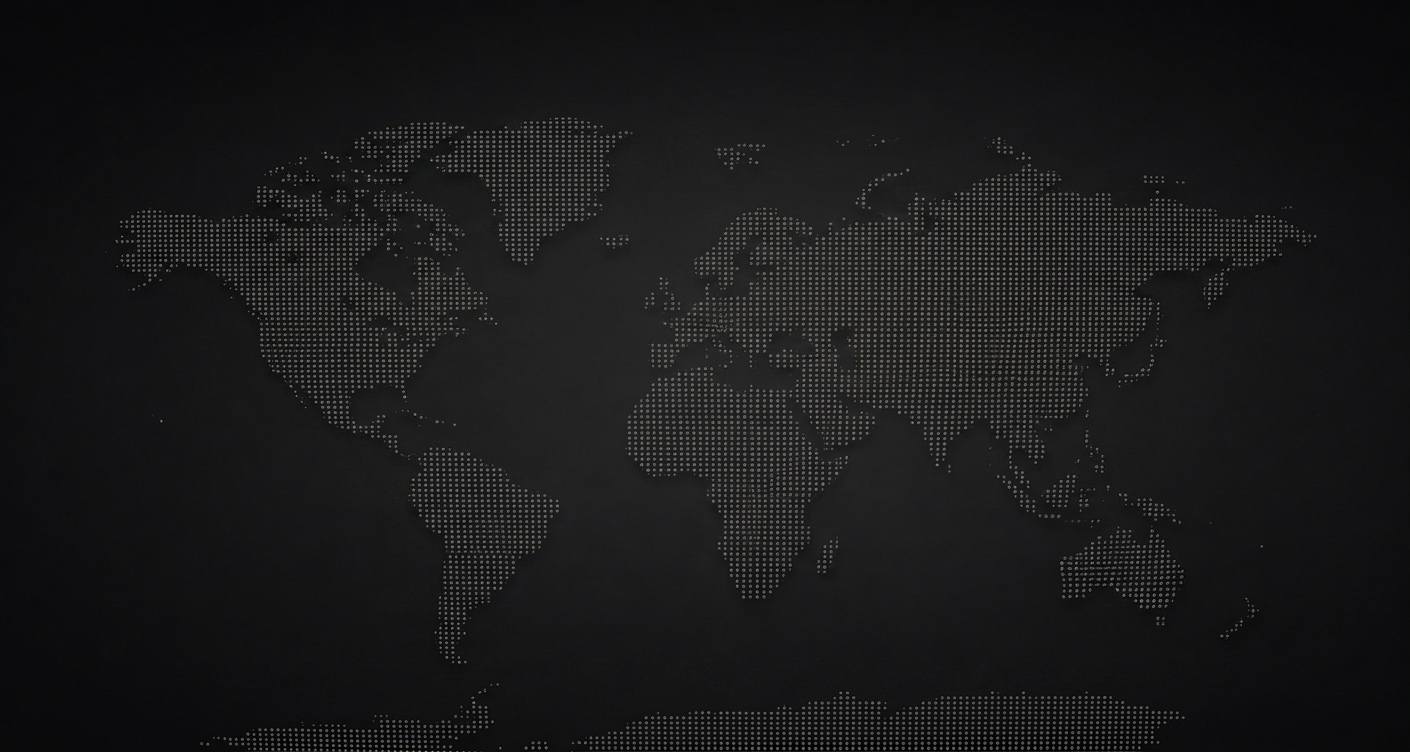
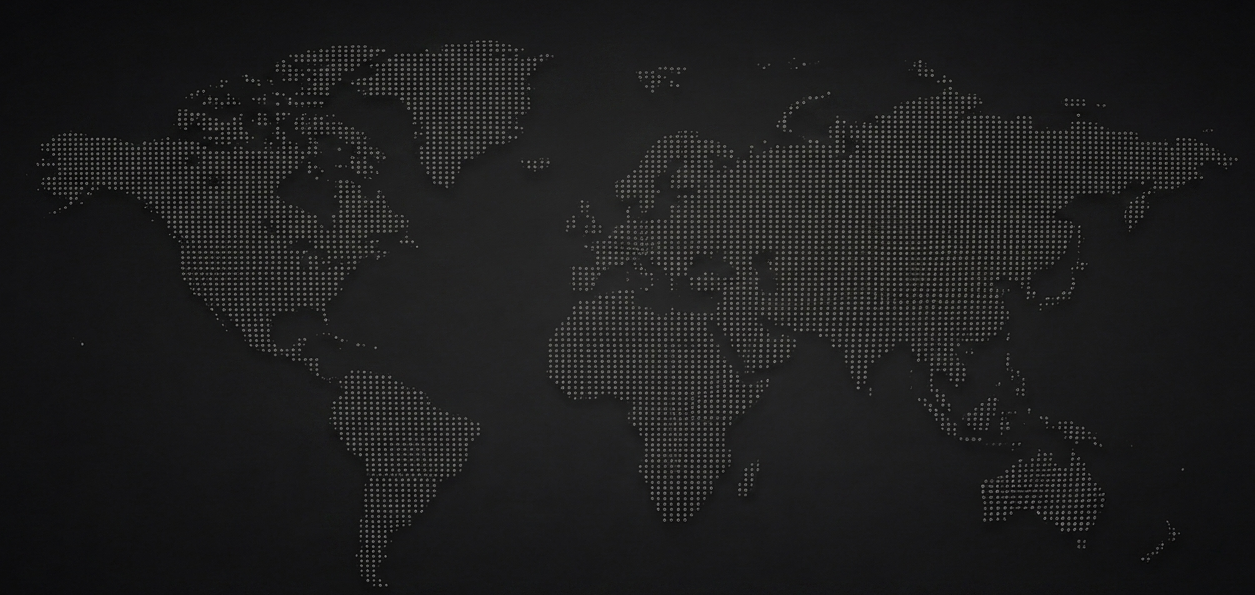
feat: update global network map coordinates and assets
Adjust marker positions for Colombia, Perú, and Spain to improve alignment with the map visual and update associated image assets.

diff --git a/src/components/GlobalNetworkMap.tsx b/src/components/GlobalNetworkMap.tsx
@@ -33,8 +33,8 @@ const HUBS: HubLocation[] = [
       'Mesa de Ayuda y Soporte Nivel 1, 2 y 3'
     ],
     stats: 'Base Corporativa · Hub Regional',
-    x: 31.2,
-    y: 63.0,
+    x: 26.8,
+    y: 64.0,
     isPrimary: true
   },
   {
@@ -51,8 +51,8 @@ const HUBS: HubLocation[] = [
       'Gestión de Bases de Datos y Enriquecimiento'
     ],
     stats: 'Expansión Regional · Cobertura Andina',
-    x: 31.4,
-    y: 69.5,
+    x: 25.8,
+    y: 72.0,
     isPrimary: true
   },
   {
@@ -69,8 +69,8 @@ const HUBS: HubLocation[] = [
       'Consultoría de Transformación y Estrategia BPO'
     ],
     stats: 'Gobernanza Corporativa · Cobertura UE',
-    x: 47.6,
-    y: 46.2,
+    x: 48.7,
+    y: 44.6,
     isPrimary: true
   }
 ];
@@ -78,11 +78,11 @@ const HUBS: HubLocation[] = [
 // Arcs connecting precisely Colombia, España and Perú
 const ARCS = [
   // Colombia -> España (Transatlantic Bridge)
-  { from: { x: 31.2, y: 63.0 }, to: { x: 47.6, y: 46.2 }, curve: -65 },
+  { from: { x: 26.8, y: 64.0 }, to: { x: 48.7, y: 44.6 }, curve: -65 },
   // Perú -> Colombia (Andean Spine)
-  { from: { x: 31.4, y: 69.5 }, to: { x: 31.2, y: 63.0 }, curve: -8 },
+  { from: { x: 25.8, y: 72.0 }, to: { x: 26.8, y: 64.0 }, curve: -8 },
   // Perú -> España (Direct Link)
-  { from: { x: 31.4, y: 69.5 }, to: { x: 47.6, y: 46.2 }, curve: -95 }
+  { from: { x: 25.8, y: 72.0 }, to: { x: 48.7, y: 44.6 }, curve: -95 }
 ];
 
 export default function GlobalNetworkMap() {
@@ -94,7 +94,7 @@ export default function GlobalNetworkMap() {
       
       {/* Background Gradients & Subtle Radial Glows */}
       <div className="absolute top-0 left-1/4 w-96 h-96 bg-sky-950/20 rounded-full blur-3xl pointer-events-none"></div>
-      <div className="absolute bottom-0 right-1/4 w-96 h-96 bg-amber-950/20 rounded-full blur-3xl pointer-events-none"></div>
+      <div className="absolute bottom-0 right-1/4 w-96 h-96 bg-neutral-800/20 rounded-full blur-3xl pointer-events-none"></div>
 
       <div className="relative z-10 max-w-[1440px] mx-auto px-2 sm:px-4 lg:px-6 w-full">
         
@@ -133,21 +133,7 @@ export default function GlobalNetworkMap() {
               className="absolute inset-0 w-full h-full pointer-events-none select-none z-10"
             >
               <defs>
-                {/* Glow Filter for primary arcs */}
-                <filter id="mapArcGlow" x="-50%" y="-50%" width="200%" height="200%">
-                  <feGaussianBlur stdDeviation="3" result="blur" />
-                  <feMerge>
-                    <feMergeNode in="blur" />
-                    <feMergeNode in="SourceGraphic" />
-                  </feMerge>
-                </filter>
-                
-                {/* Gradient for transatlantic and global arcs */}
-                <linearGradient id="mapGlobalArcGradient" x1="0%" y1="0%" x2="100%" y2="100%">
-                  <stop offset="0%" stopColor="#38bdf8" stopOpacity="0.9" />
-                  <stop offset="50%" stopColor="#ffffff" stopOpacity="1" />
-                  <stop offset="100%" stopColor="#f59e0b" stopOpacity="0.9" />
-                </linearGradient>
+
               </defs>
 
               {/* Dynamic Connecting Arcs */}
@@ -166,19 +152,18 @@ export default function GlobalNetworkMap() {
                     <path
                       d={pathD}
                       fill="none"
-                      stroke="#404040"
-                      strokeWidth="1.2"
+                      stroke="#ffffff"
+                      strokeWidth="0.8"
                       strokeDasharray="4,4"
-                      opacity="0.6"
+                      opacity="0.35"
                     />
                     {/* Glowing Fluid Arc (Slower Latency) */}
                     <path
                       d={pathD}
                       fill="none"
-                      stroke="url(#mapGlobalArcGradient)"
-                      strokeWidth="1.8"
-                      filter="url(#mapArcGlow)"
-                      opacity="0.85"
+                      stroke="#ffffff"
+                      strokeWidth="1"
+                      opacity="0.75"
                       style={{ animation: 'pulse 5s cubic-bezier(0.4, 0, 0.6, 1) infinite' }}
                     />
                   </g>
@@ -209,20 +194,20 @@ export default function GlobalNetworkMap() {
                         {/* Outer Glow Ping Animation (Calm, Slower Latency 4s & Compact) */}
                         <span
                           style={{ animation: 'ping 4s cubic-bezier(0, 0, 0.2, 1) infinite' }}
-                          className="absolute w-7 h-7 rounded-full bg-amber-400/25 pointer-events-none"
+                          className="absolute w-7 h-7 rounded-full bg-gray-400/20 pointer-events-none"
                         ></span>
                         
                         {/* Inner Wave Pulse Animation (Slower Latency 3.5s & Compact) */}
                         <span
                           style={{ animation: 'pulse 3.5s cubic-bezier(0.4, 0, 0.6, 1) infinite' }}
-                          className="absolute w-5 h-5 rounded-full bg-sky-400/35 pointer-events-none"
+                          className="absolute w-5 h-5 rounded-full bg-gray-300/25 pointer-events-none"
                         ></span>
 
                         {/* Solid Ring with Center Marker (Accurate pinpoint size) */}
                         <div className={`w-3.5 h-3.5 rounded-full border border-white transition-all duration-300 flex items-center justify-center shadow-lg ${
                           isSelected
-                            ? 'bg-amber-400 scale-125 ring-2 ring-amber-400/70 shadow-amber-400/80'
-                            : 'bg-amber-400 hover:scale-125 shadow-amber-500/50'
+                            ? 'bg-gray-300 scale-125 ring-2 ring-gray-400/70 shadow-gray-400/50'
+                            : 'bg-gray-400 hover:scale-125 shadow-gray-500/40'
                         }`}>
                           <span className="w-1.5 h-1.5 rounded-full bg-black"></span>
                         </div>
@@ -257,7 +242,7 @@ export default function GlobalNetworkMap() {
                       <h4 className="text-lg font-black text-white tracking-tight">
                         {selectedHub.country}
                       </h4>
-                      <p className="text-xs font-bold text-amber-400">
+                      <p className="text-xs font-bold text-neutral-300">
                         {selectedHub.name}
                       </p>
                     </div>
@@ -281,9 +266,9 @@ export default function GlobalNetworkMap() {
                   </div>
 
                   <div className="flex items-center gap-2 text-neutral-300">
-                    <Users className="w-3.5 h-3.5 text-amber-400 shrink-0" />
+                    <Users className="w-3.5 h-3.5 text-neutral-300 shrink-0" />
                     <span className="font-semibold text-neutral-200">Enfoque:</span>
-                    <span className="text-amber-200 font-medium">{selectedHub.stats}</span>
+                    <span className="text-neutral-300 font-medium">{selectedHub.stats}</span>
                   </div>
                 </div>
 
